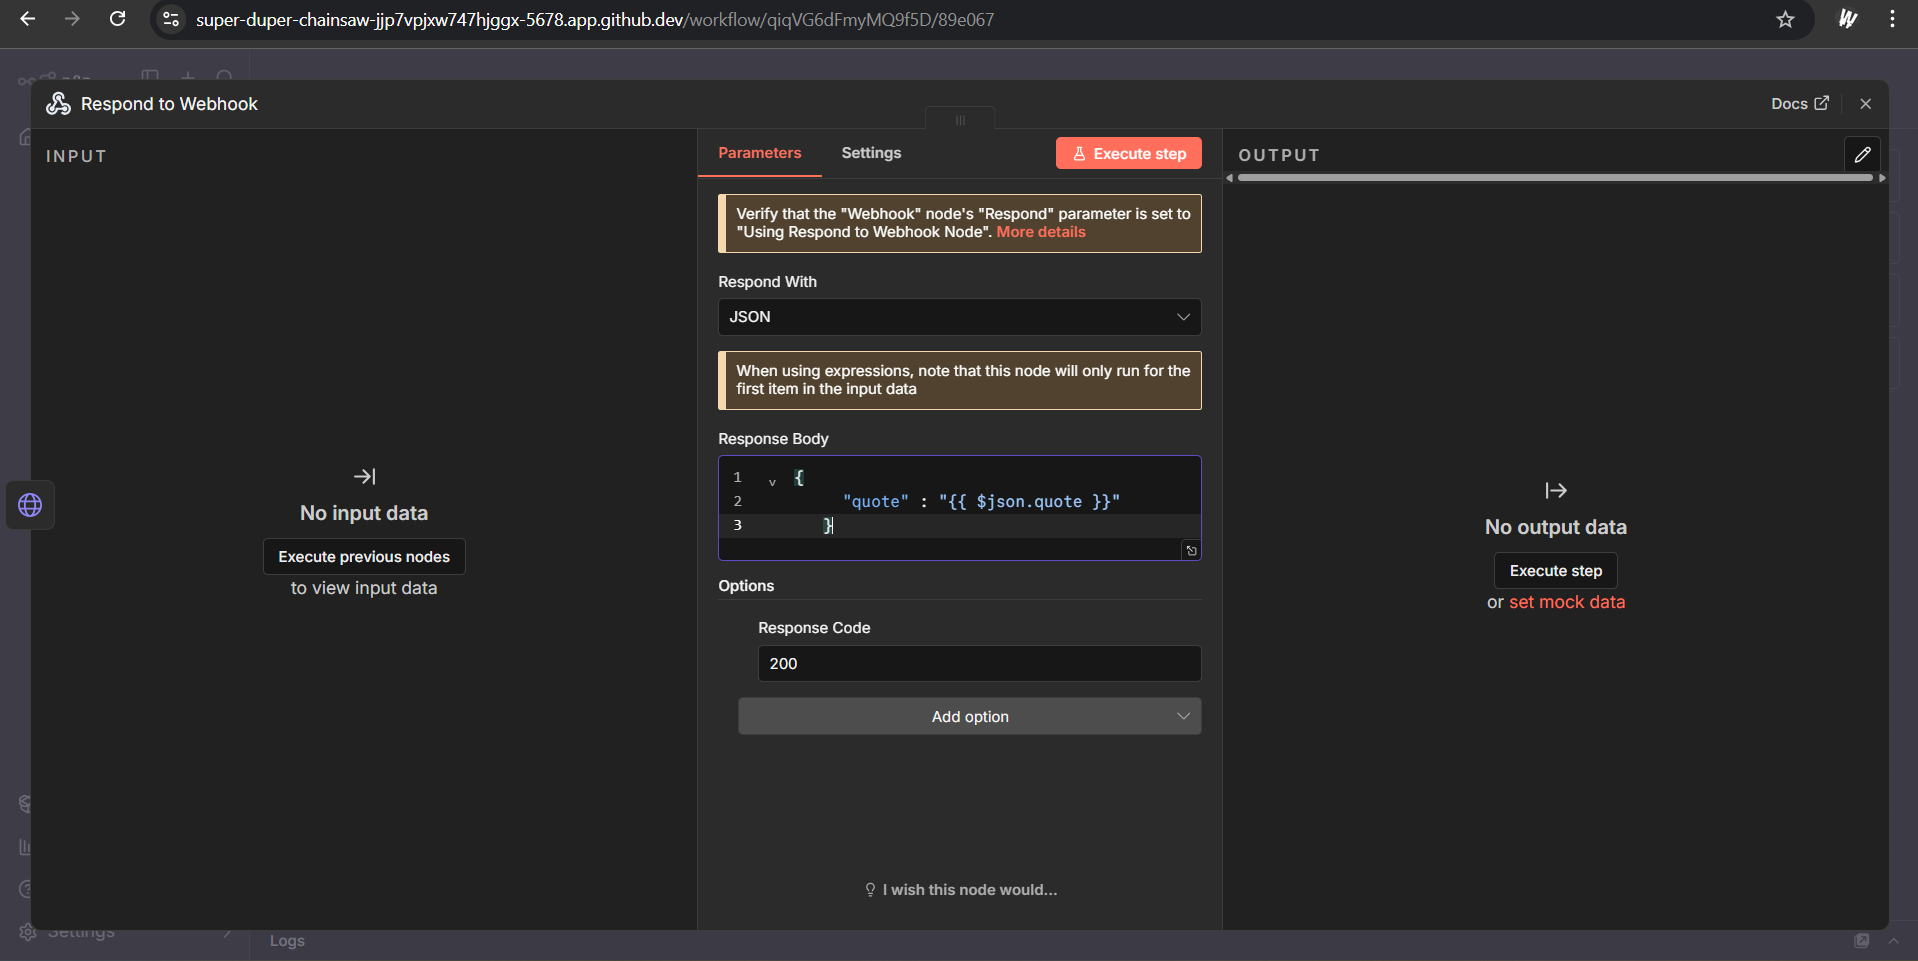
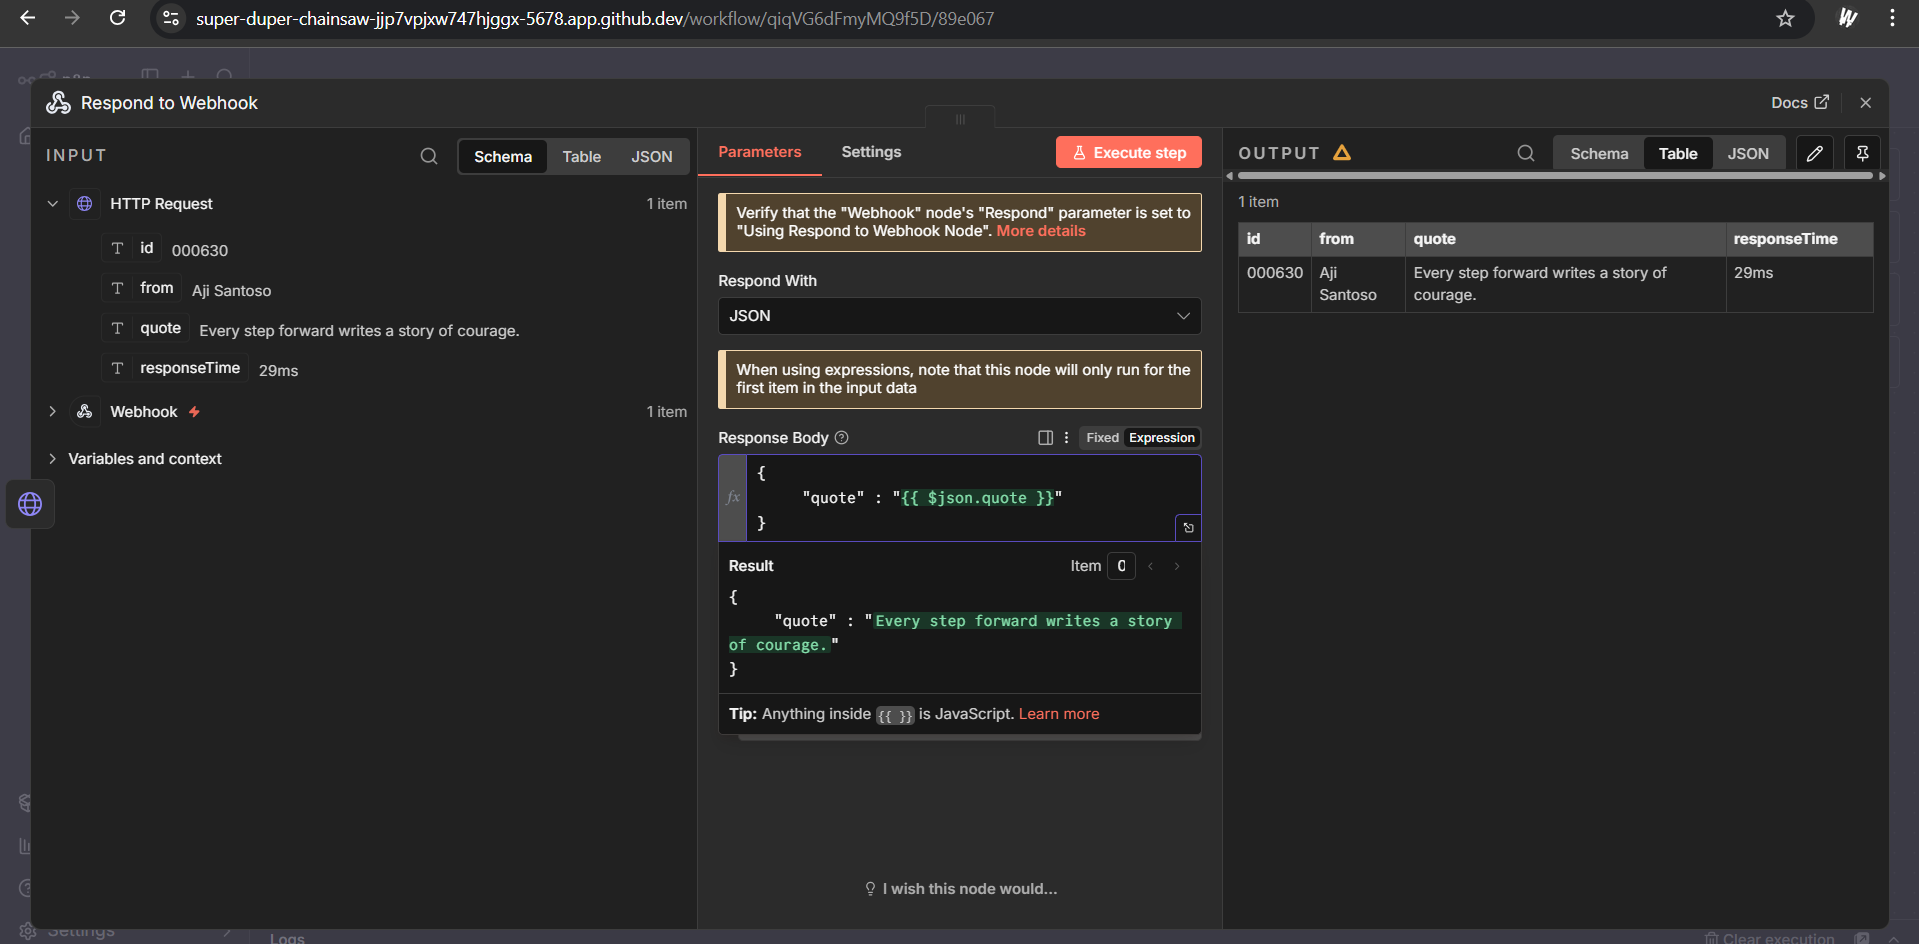
Exercise_B_corrected

diff --git a/l9_solutions/Exercise_B/L9_ExerciseB.md b/l9_solutions/Exercise_B/L9_ExerciseB.md
@@ -3,4 +3,4 @@
 ![step_4](image-2.png)
 ![step_6](image-3.png)
 
-During Exercise B I have created a workflow that receives a request and then returns a random message from external API in JSON. Unfortunately API does not work, so there is an error message instead of expected one.
+During Exercise B I have created a workflow that receives a request. Then the external API gives us quotes and one of them is being randomly chosen and displayed in JSON.
